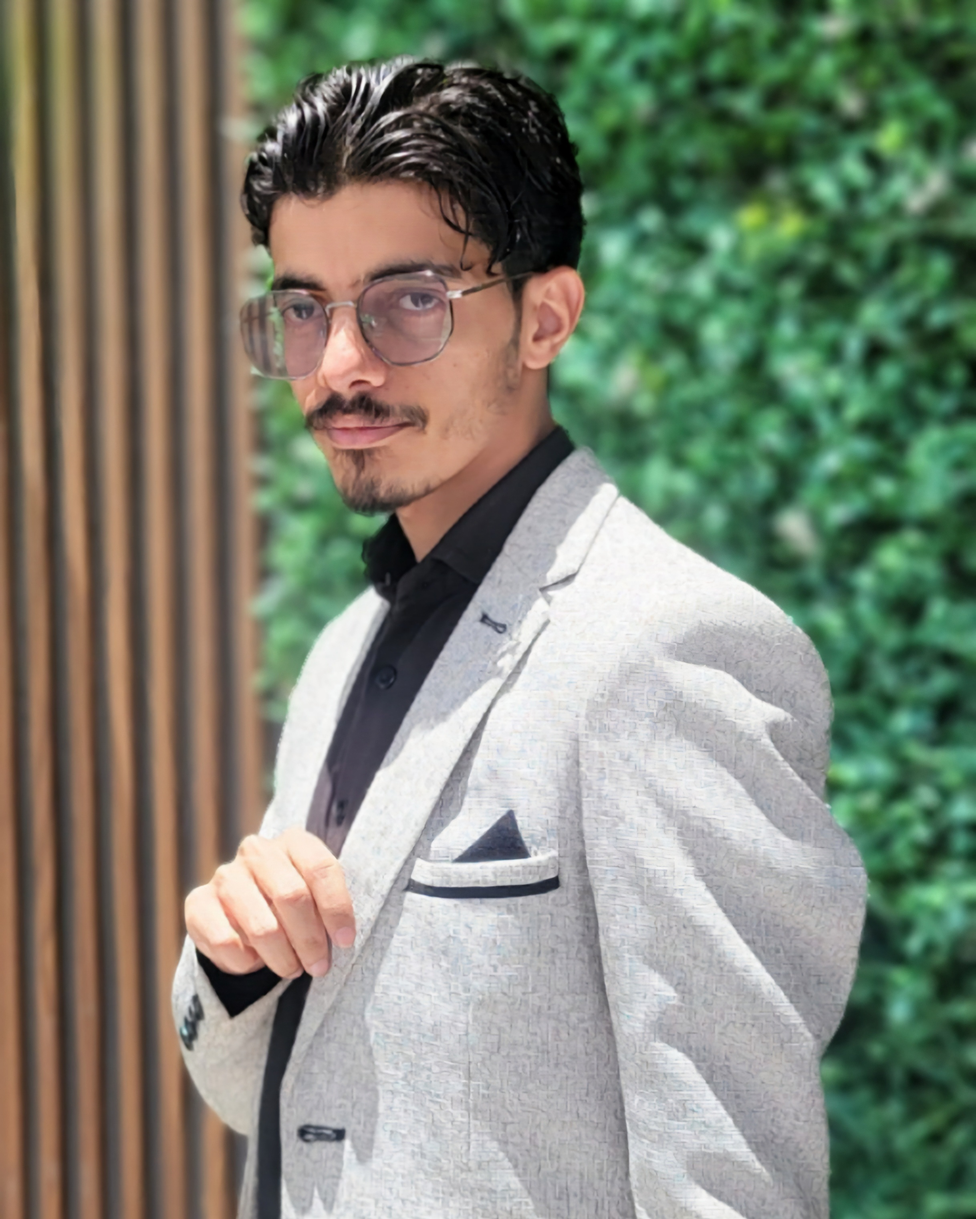
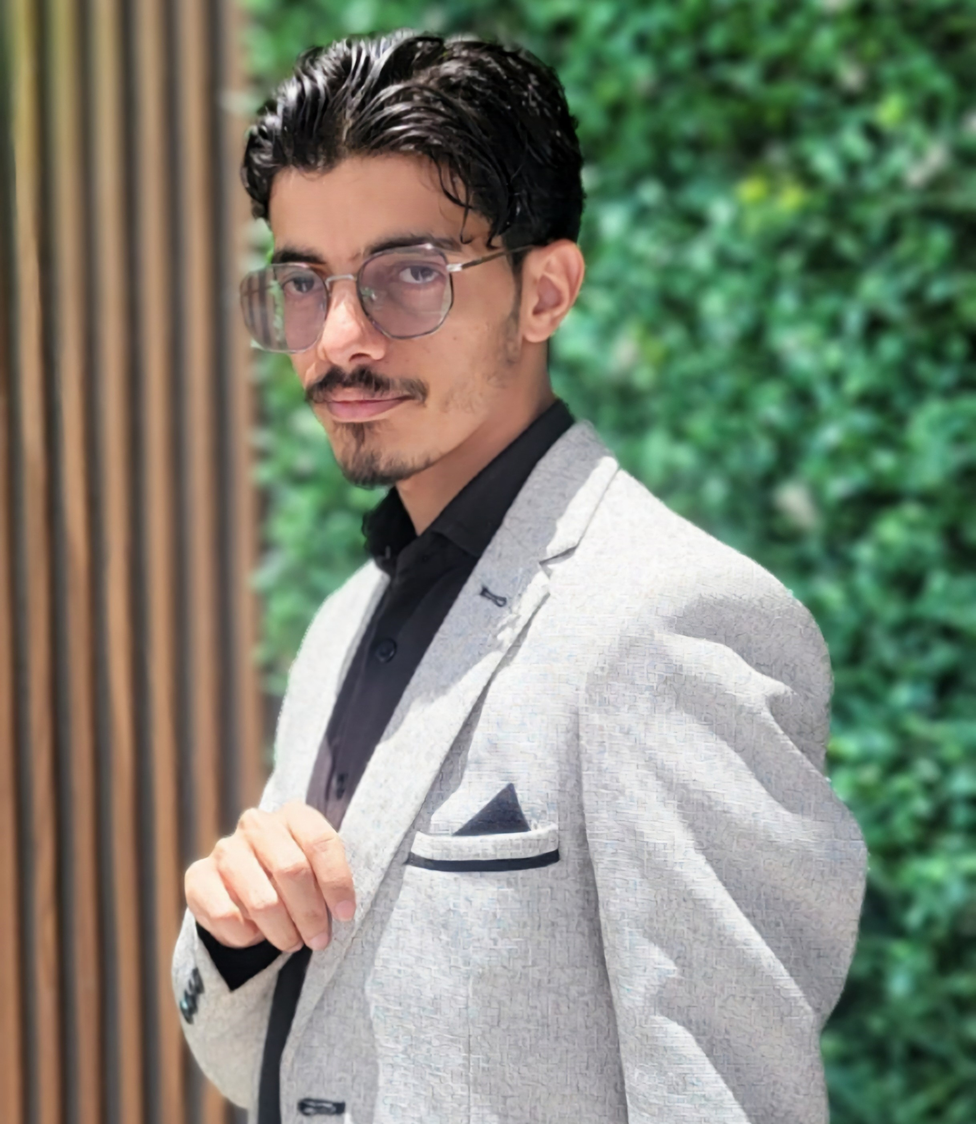
Edit Style

diff --git a/index.html b/index.html
@@ -47,7 +47,7 @@
     <div class="container">
         <div class="row g-5">
             <div class="col-lg-4 sticky-lg-top vh-100">
-                <div class="d-flex flex-column h-100 text-center overflow-auto shadow">
+                <div class="d-flex flex-column h-100 text-center overflow-auto shadow header-box">
                     <img class="fadi-img w-100 img-fluid mb-4" src="img/Me 5.jpg" alt="Image">
                     <h1 class="text-primary mt-2">Fadi Al-Ariqi</h1>
                     <div class="mb-4" style="height: 22px;">

diff --git a/css/style.css b/css/style.css
@@ -264,6 +264,9 @@ h6,
 
 .fadi-img {
   border-radius: 10%;
-  /* margin-top: 10px;
-  width: 90% !important; */
+  padding-top: 10px;
 }
+
+/* .header-box {
+  margin-top: 0px;
+} */
